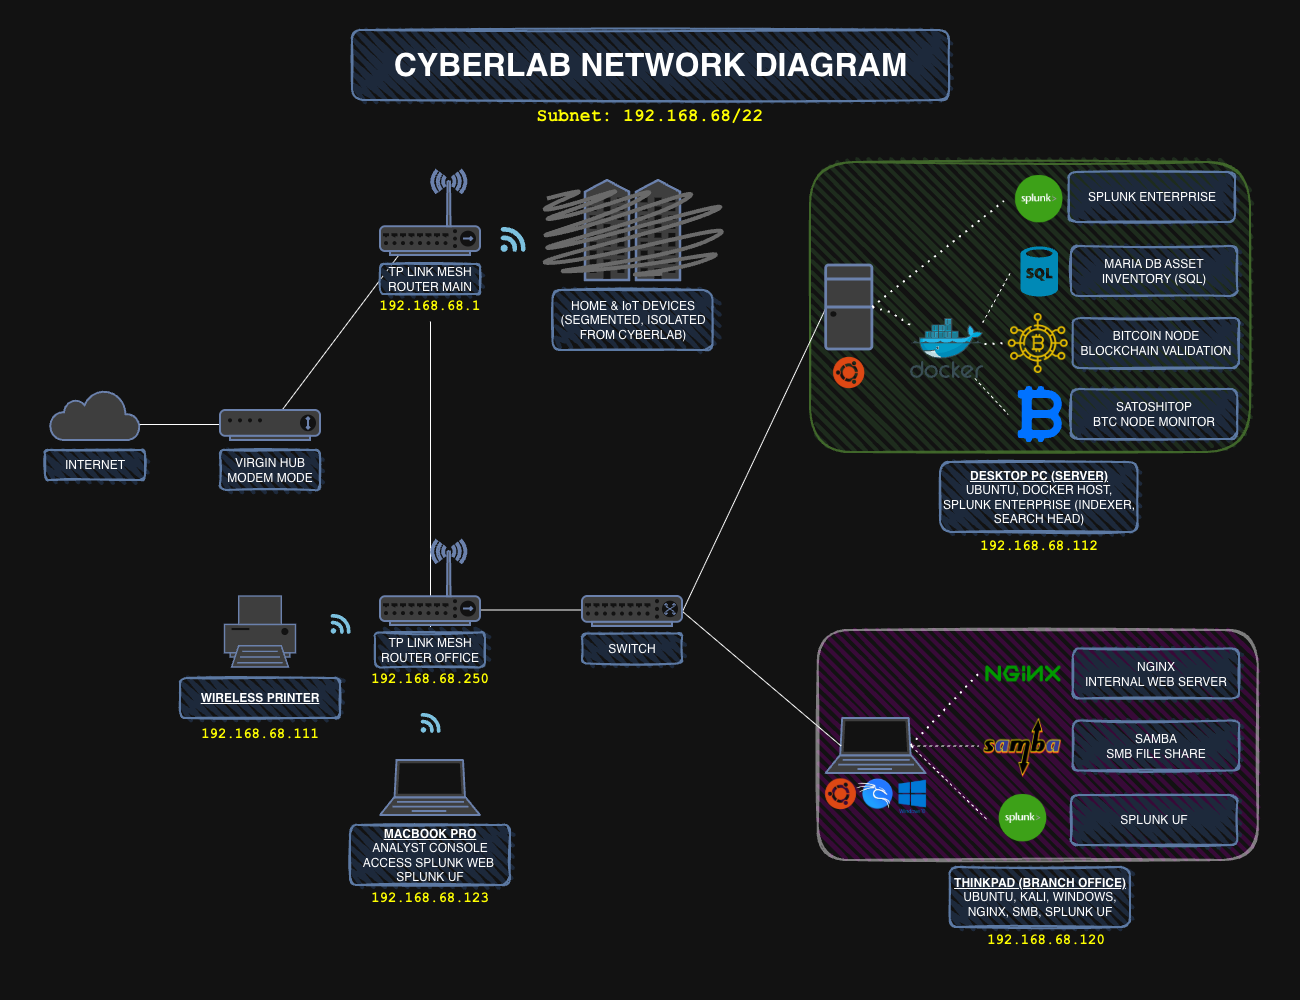
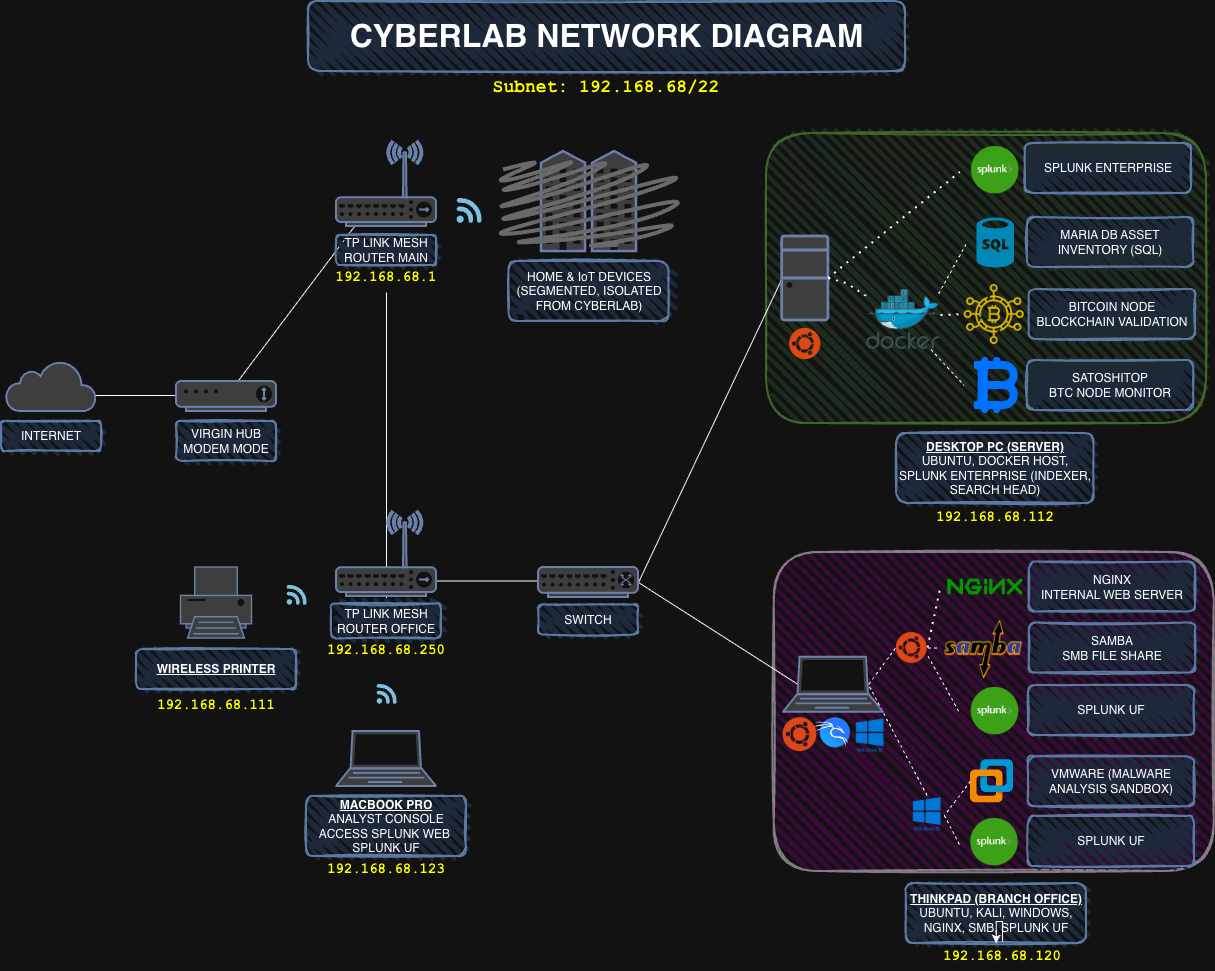
updated progress log and network diagram

diff --git a/progress-log.md b/progress-log.md
@@ -5,6 +5,20 @@ Entries are added as new components are installed, tested, or refined.
 
 
 ---
+## 05-01-2026
+Created a dedicated Windows 10 Pro malware analysis sandbox VM using VMware on the Windows boot of the Lenovo ThinkPad.
+Installed core dynamic analysis tools inside the sandbox VM:
+- System Informer (formerly Process Hacker)
+- Process Explorer
+- Process Monitor (ProcMon)
+- Fiddler
+- Wireshark
+- Regshot
+- HashMyFiles
+Purpose of the sandbox is to support dynamic malware analysis, including observation of runtime file system activity, registry changes, process creation, privilege usage, and network behaviour, in an isolated environment separate from production endpoints.
+Updated the network diagram.
+
+
 ## 12-12-2025
 - Completed the Endpoint Activity Dashboard in Splunk, focusing on validating endpoint telemetry rather than attack detection. 
 - Finalised and uploaded full dashboard documentation, clearly documenting current limitations (macOS auth excluded for now) and establishing a clean baseline for future security-focused panels. 
